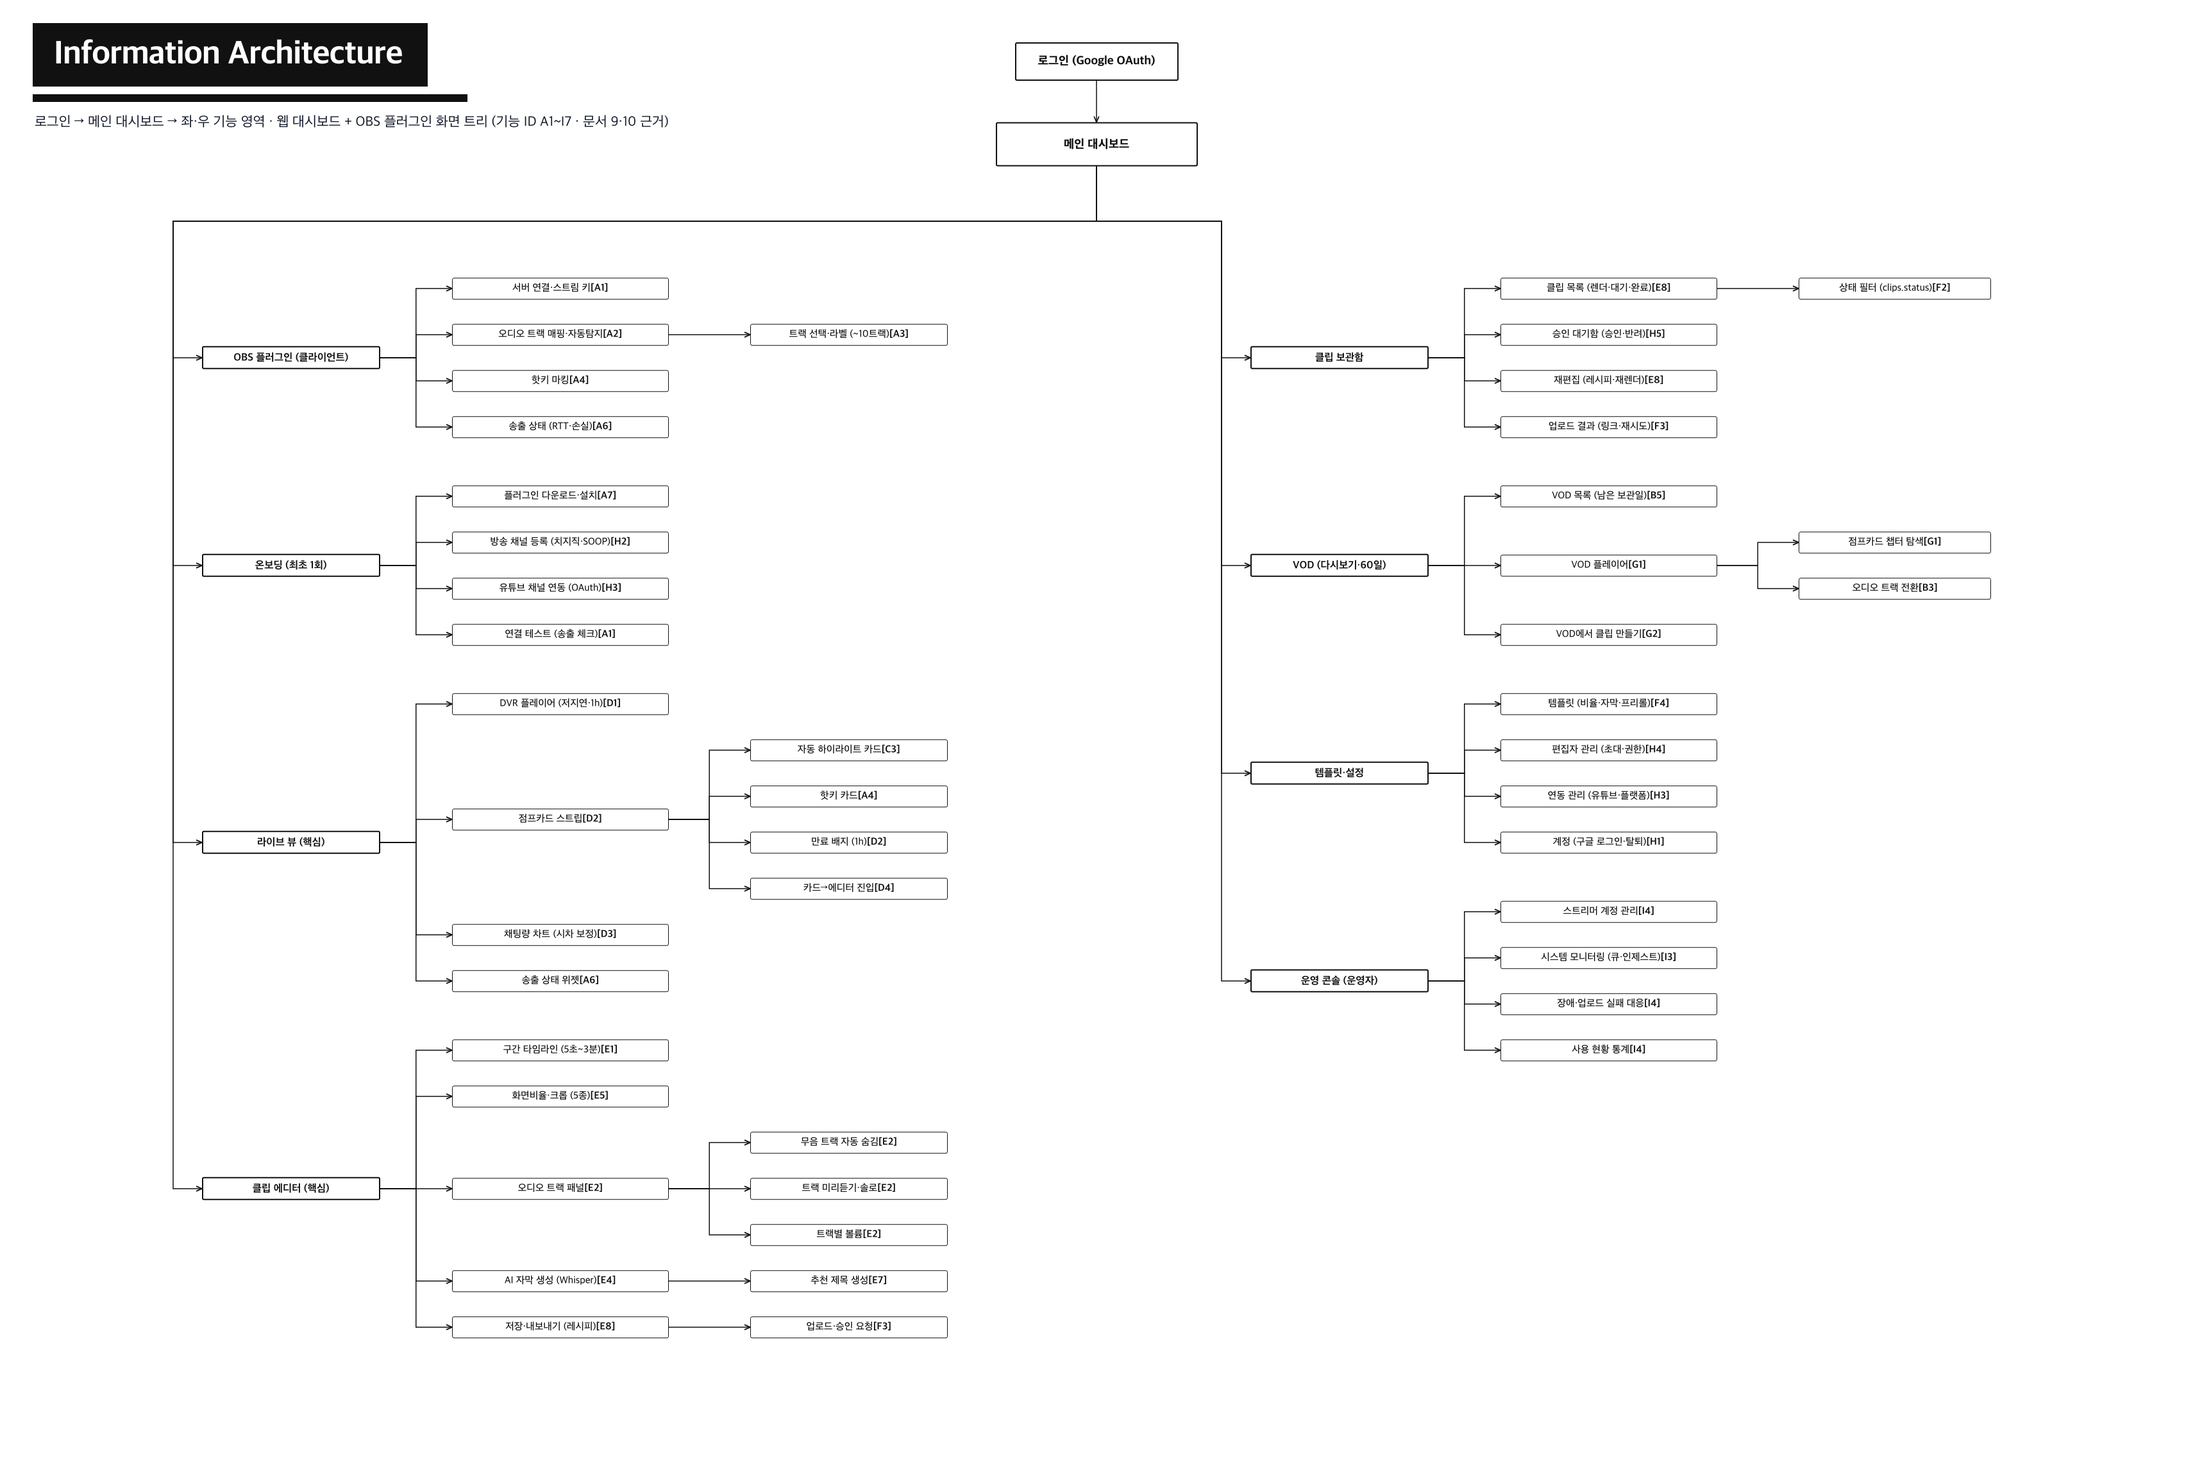
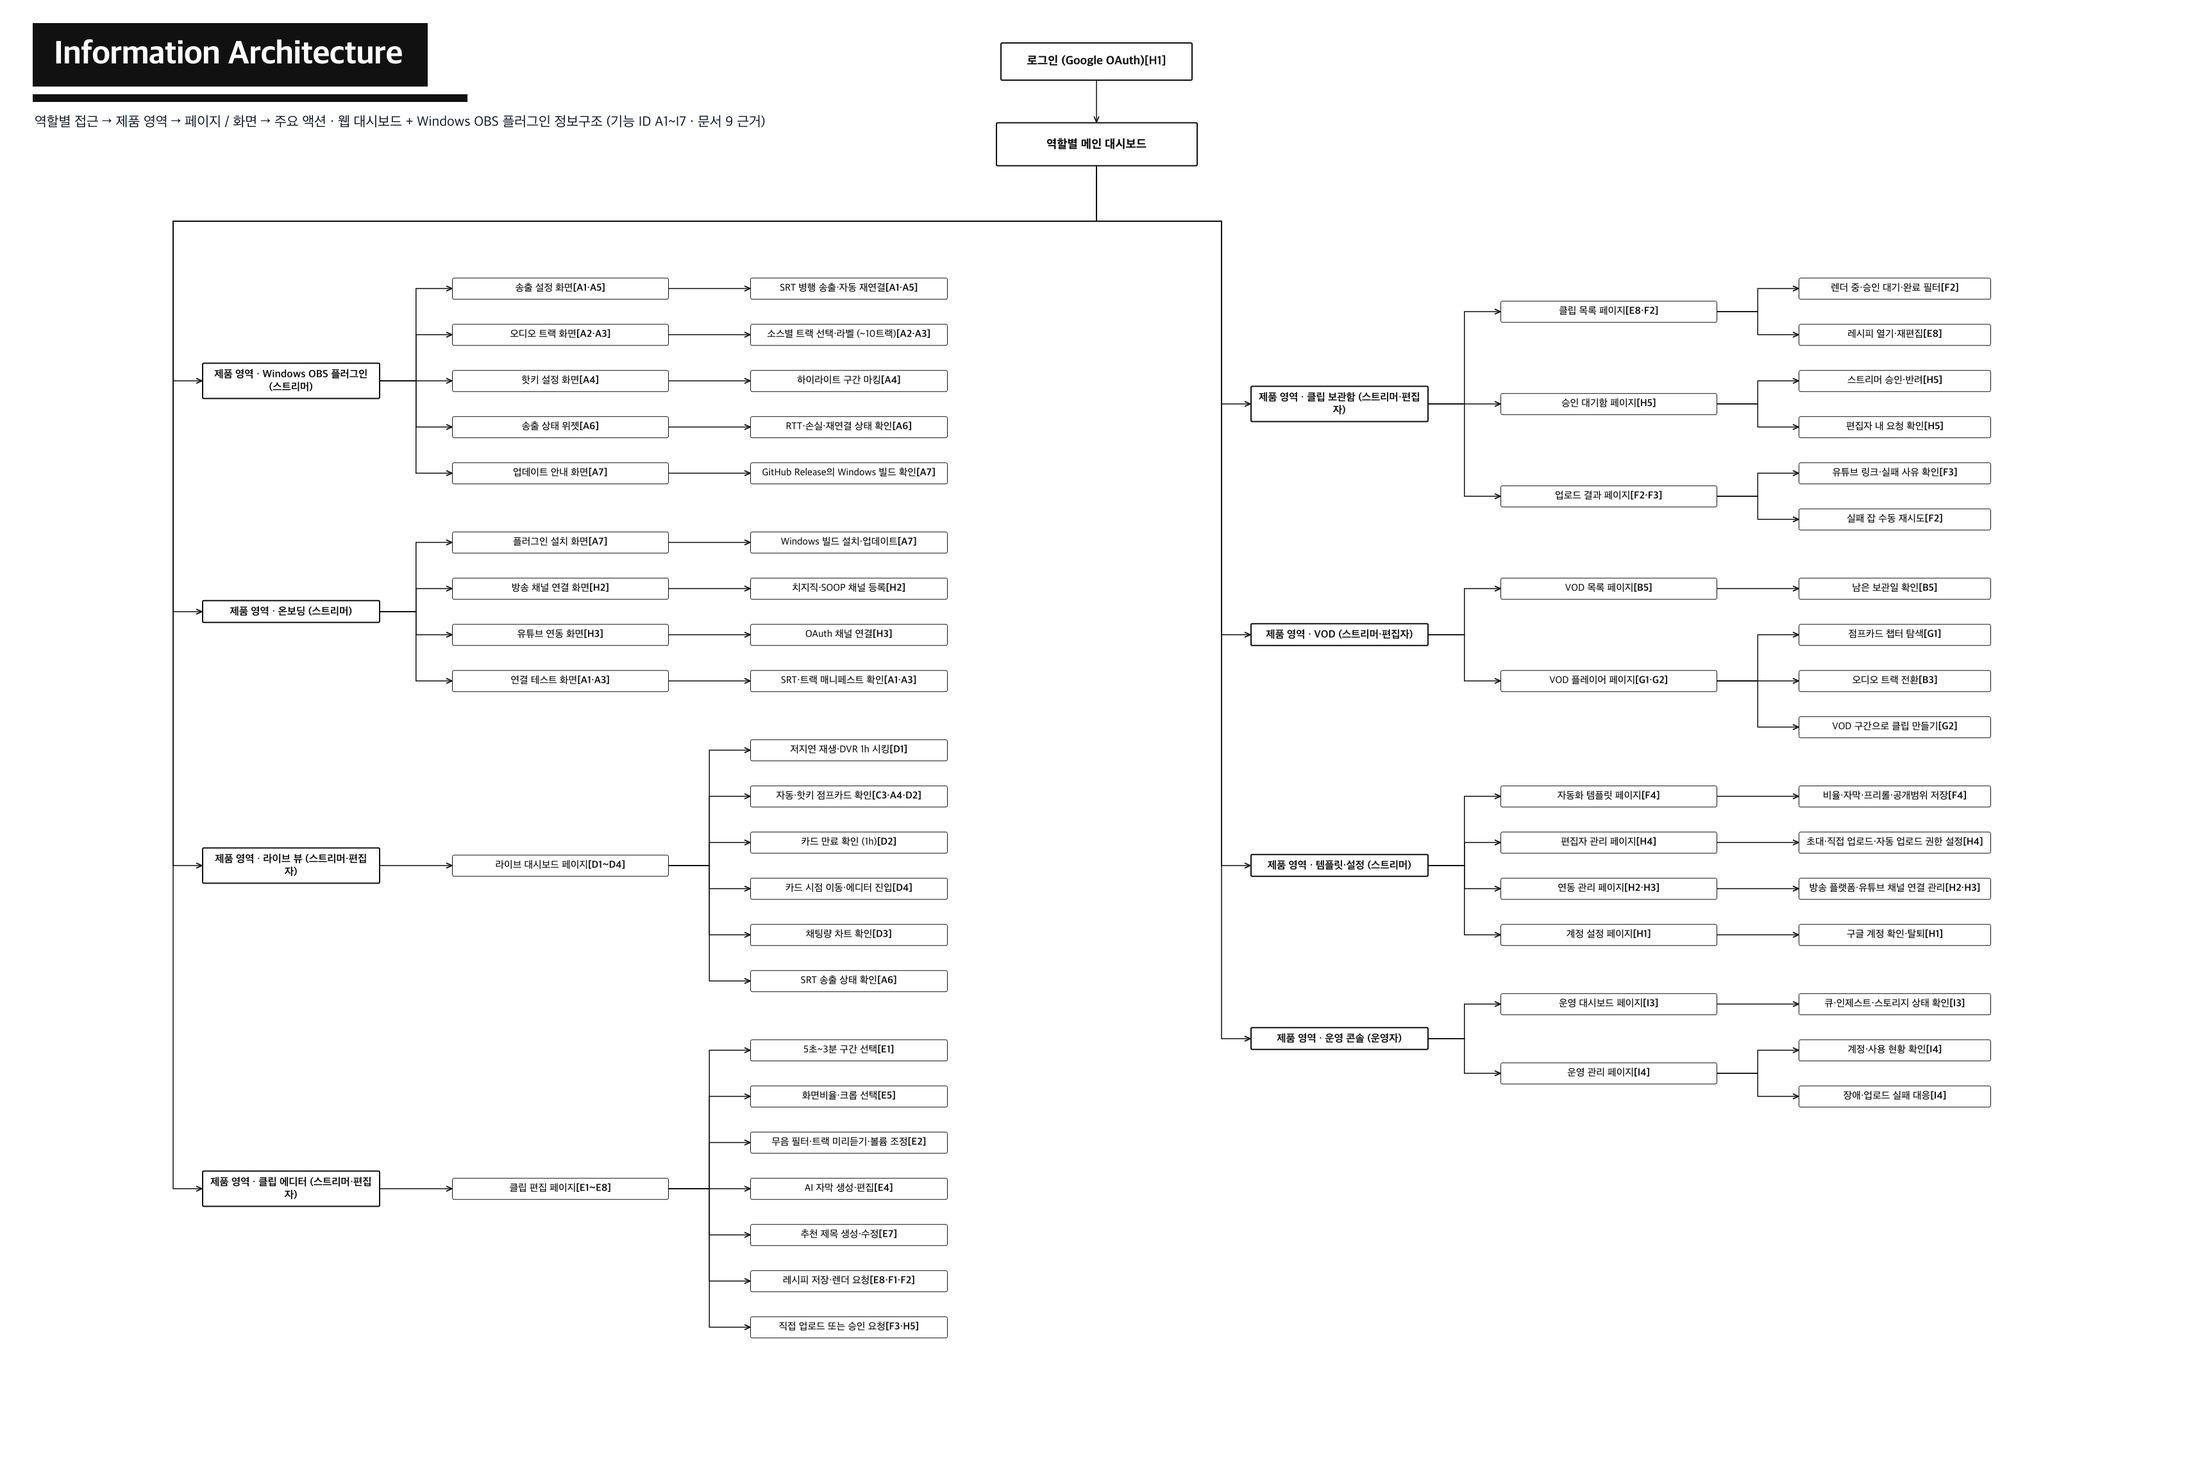
feat: 1번 IA 정보구조 정본화

diff --git a/1_Pokeclip_IA.html b/1_Pokeclip_IA.html
@@ -30,7 +30,7 @@
 <body>
   <div class="title-bar"><h1>Information Architecture</h1></div>
   <div class="title-underline"></div>
-  <div class="subtitle">로그인 → 메인 대시보드 → 좌·우 기능 영역 · 웹 대시보드 + OBS 플러그인 화면 트리 (기능 ID A1~I7 · 문서 9·10 근거)</div>
+  <div class="subtitle">역할별 접근 → 제품 영역 → 페이지 / 화면 → 주요 액션 · 웹 대시보드 + Windows OBS 플러그인 정보구조 (기능 ID A1~I7 · 문서 9 근거)</div>
 
   <svg class="wires" id="wires"></svg>
   <div id="nodes"></div>
@@ -49,67 +49,88 @@
 
   function n(t, ch){ return { t:t, ch:ch||null }; }
   const leftTree = [
-    n('OBS 플러그인 (클라이언트)', [
-      n('서버 연결·스트림 키 [A1]'),
-      n('오디오 트랙 매핑·자동탐지 [A2]', [ n('트랙 선택·라벨 (~10트랙) [A3]') ]),
-      n('핫키 마킹 [A4]'),
-      n('송출 상태 (RTT·손실) [A6]'),
+    n('제품 영역 · Windows OBS 플러그인 (스트리머)', [
+      n('송출 설정 화면 [A1·A5]', [ n('SRT 병행 송출·자동 재연결 [A1·A5]') ]),
+      n('오디오 트랙 화면 [A2·A3]', [ n('소스별 트랙 선택·라벨 (~10트랙) [A2·A3]') ]),
+      n('핫키 설정 화면 [A4]', [ n('하이라이트 구간 마킹 [A4]') ]),
+      n('송출 상태 위젯 [A6]', [ n('RTT·손실·재연결 상태 확인 [A6]') ]),
+      n('업데이트 안내 화면 [A7]', [ n('GitHub Release의 Windows 빌드 확인 [A7]') ]),
     ]),
-    n('온보딩 (최초 1회)', [
-      n('플러그인 다운로드·설치 [A7]'),
-      n('방송 채널 등록 (치지직·SOOP) [H2]'),
-      n('유튜브 채널 연동 (OAuth) [H3]'),
-      n('연결 테스트 (송출 체크) [A1]'),
+    n('제품 영역 · 온보딩 (스트리머)', [
+      n('플러그인 설치 화면 [A7]', [ n('Windows 빌드 설치·업데이트 [A7]') ]),
+      n('방송 채널 연결 화면 [H2]', [ n('치지직·SOOP 채널 등록 [H2]') ]),
+      n('유튜브 연동 화면 [H3]', [ n('OAuth 채널 연결 [H3]') ]),
+      n('연결 테스트 화면 [A1·A3]', [ n('SRT·트랙 매니페스트 확인 [A1·A3]') ]),
     ]),
-    n('라이브 뷰 (핵심)', [
-      n('DVR 플레이어 (저지연·1h) [D1]'),
-      n('점프카드 스트립 [D2]', [
-        n('자동 하이라이트 카드 [C3]'),
-        n('핫키 카드 [A4]'),
-        n('만료 배지 (1h) [D2]'),
-        n('카드→에디터 진입 [D4]'),
+    n('제품 영역 · 라이브 뷰 (스트리머·편집자)', [
+      n('라이브 대시보드 페이지 [D1~D4]', [
+        n('저지연 재생·DVR 1h 시킹 [D1]'),
+        n('자동·핫키 점프카드 확인 [C3·A4·D2]'),
+        n('카드 만료 확인 (1h) [D2]'),
+        n('카드 시점 이동·에디터 진입 [D4]'),
+        n('채팅량 차트 확인 [D3]'),
+        n('SRT 송출 상태 확인 [A6]'),
       ]),
-      n('채팅량 차트 (시차 보정) [D3]'),
-      n('송출 상태 위젯 [A6]'),
     ]),
-    n('클립 에디터 (핵심)', [
-      n('구간 타임라인 (5초~3분) [E1]'),
-      n('화면비율·크롭 (5종) [E5]'),
-      n('오디오 트랙 패널 [E2]', [
-        n('무음 트랙 자동 숨김 [E2]'),
-        n('트랙 미리듣기·솔로 [E2]'),
-        n('트랙별 볼륨 [E2]'),
+    n('제품 영역 · 클립 에디터 (스트리머·편집자)', [
+      n('클립 편집 페이지 [E1~E8]', [
+        n('5초~3분 구간 선택 [E1]'),
+        n('화면비율·크롭 선택 [E5]'),
+        n('무음 필터·트랙 미리듣기·볼륨 조정 [E2]'),
+        n('AI 자막 생성·편집 [E4]'),
+        n('추천 제목 생성·수정 [E7]'),
+        n('레시피 저장·렌더 요청 [E8·F1·F2]'),
+        n('직접 업로드 또는 승인 요청 [F3·H5]'),
       ]),
-      n('AI 자막 생성 (Whisper) [E4]', [ n('추천 제목 생성 [E7]') ]),
-      n('저장·내보내기 (레시피) [E8]', [ n('업로드·승인 요청 [F3]') ]),
     ]),
   ];
   const rightTree = [
-    n('클립 보관함', [
-      n('클립 목록 (렌더·대기·완료) [E8]', [ n('상태 필터 (clips.status) [F2]') ]),
-      n('승인 대기함 (승인·반려) [H5]'),
-      n('재편집 (레시피·재렌더) [E8]'),
-      n('업로드 결과 (링크·재시도) [F3]'),
+    n('제품 영역 · 클립 보관함 (스트리머·편집자)', [
+      n('클립 목록 페이지 [E8·F2]', [
+        n('렌더 중·승인 대기·완료 필터 [F2]'),
+        n('레시피 열기·재편집 [E8]'),
+      ]),
+      n('승인 대기함 페이지 [H5]', [
+        n('스트리머 승인·반려 [H5]'),
+        n('편집자 내 요청 확인 [H5]'),
+      ]),
+      n('업로드 결과 페이지 [F2·F3]', [
+        n('유튜브 링크·실패 사유 확인 [F3]'),
+        n('실패 잡 수동 재시도 [F2]'),
+      ]),
     ]),
-    n('VOD (다시보기·60일)', [
-      n('VOD 목록 (남은 보관일) [B5]'),
-      n('VOD 플레이어 [G1]', [
+    n('제품 영역 · VOD (스트리머·편집자)', [
+      n('VOD 목록 페이지 [B5]', [
+        n('남은 보관일 확인 [B5]'),
+      ]),
+      n('VOD 플레이어 페이지 [G1·G2]', [
         n('점프카드 챕터 탐색 [G1]'),
         n('오디오 트랙 전환 [B3]'),
+        n('VOD 구간으로 클립 만들기 [G2]'),
       ]),
-      n('VOD에서 클립 만들기 [G2]'),
     ]),
-    n('템플릿·설정', [
-      n('템플릿 (비율·자막·프리롤) [F4]'),
-      n('편집자 관리 (초대·권한) [H4]'),
-      n('연동 관리 (유튜브·플랫폼) [H3]'),
-      n('계정 (구글 로그인·탈퇴) [H1]'),
+    n('제품 영역 · 템플릿·설정 (스트리머)', [
+      n('자동화 템플릿 페이지 [F4]', [
+        n('비율·자막·프리롤·공개범위 저장 [F4]'),
+      ]),
+      n('편집자 관리 페이지 [H4]', [
+        n('초대·직접 업로드·자동 업로드 권한 설정 [H4]'),
+      ]),
+      n('연동 관리 페이지 [H2·H3]', [
+        n('방송 플랫폼·유튜브 채널 연결 관리 [H2·H3]'),
+      ]),
+      n('계정 설정 페이지 [H1]', [
+        n('구글 계정 확인·탈퇴 [H1]'),
+      ]),
     ]),
-    n('운영 콘솔 (운영자)', [
-      n('스트리머 계정 관리 [I4]'),
-      n('시스템 모니터링 (큐·인제스트) [I3]'),
-      n('장애·업로드 실패 대응 [I4]'),
-      n('사용 현황 통계 [I4]'),
+    n('제품 영역 · 운영 콘솔 (운영자)', [
+      n('운영 대시보드 페이지 [I3]', [
+        n('큐·인제스트·스토리지 상태 확인 [I3]'),
+      ]),
+      n('운영 관리 페이지 [I4]', [
+        n('계정·사용 현황 확인 [I4]'),
+        n('장애·업로드 실패 대응 [I4]'),
+      ]),
     ]),
   ];
 
@@ -130,8 +151,8 @@
   const rightEnd = Y;
   const H = Math.round(Math.max(leftEnd, rightEnd) + 90);
 
-  const root  = { t:'메인 대시보드',           x:1035, w:210, y:150, h:46, cls:'root' };
-  const login = { t:'로그인 (Google OAuth)',   x:1055, w:170, y:64,  h:40, cls:'root' };
+  const root  = { t:'역할별 메인 대시보드',        x:1035, w:210, y:150, h:46, cls:'root' };
+  const login = { t:'로그인 (Google OAuth) [H1]', x:1040, w:200, y:64,  h:40, cls:'root' };
 
   // ---- 노드 렌더 ----
   const box = document.getElementById('nodes');

diff --git a/site/src/content/diagrams/1.md b/site/src/content/diagrams/1.md
@@ -1,65 +1,65 @@
-> 정보 구조(IA) 다이어그램을 EDGE 슬라이드 문법(순수 모노크롬 트리)으로 재구성한 뷰. 로그인 → 메인 대시보드 → 좌·우 기능 영역으로 대분기하는 웹 대시보드 + OBS 플러그인 화면 트리. 말단 화면·버튼·상태·필터에는 기능 ID(A1~I7, [9번 기능명세서](#) 근거)를 배지로 부착했고, 보관함·승인함 등 상태 필터는 [10번 데이터플로우](#)의 화면↔테이블 매핑(clips.status 등)을 따른다.
+> Google 로그인 `H1` → 역할별 메인 대시보드 → **제품 영역 → 페이지/화면 → 주요 액션** 순으로 읽는 정보 구조. 데이터베이스 필드명이 아니라 사용자가 실제로 접하는 화면과 행동을 기준으로 구성했으며, 각 항목은 [9번 기능명세서](#)의 기능 ID에 연결된다.
 
-## OBS 플러그인 (클라이언트)
+## Windows OBS 플러그인 · 스트리머
 
-- 서버 연결·스트림 키 [A1]
-- 오디오 트랙 매핑·자동탐지 [A2] → 트랙 선택·라벨 (~10트랙) [A3]
-- 핫키 마킹 [A4]
-- 송출 상태 (RTT·손실) [A6]
+- **송출 설정 화면** `A1·A5` → SRT 병행 송출·자동 재연결
+- **오디오 트랙 화면** `A2·A3` → 소스별 트랙 선택·라벨 (~10트랙)
+- **핫키 설정 화면** `A4` → 하이라이트 구간 마킹
+- **송출 상태 위젯** `A6` → RTT·손실·재연결 상태 확인
+- **업데이트 안내 화면** `A7` → GitHub Release의 Windows 빌드 확인
 
 ## 온보딩 (최초 1회)
 
-- 플러그인 다운로드·설치 [A7]
-- 방송 채널 등록 (치지직·SOOP) [H2]
-- 유튜브 채널 연동 (OAuth) [H3]
-- 연결 테스트 (송출 체크) [A1]
+- **플러그인 설치 화면** `A7` → Windows 빌드 설치·업데이트
+- **방송 채널 연결 화면** `H2` → 치지직·SOOP 채널 등록
+- **유튜브 연동 화면** `H3` → OAuth 채널 연결
+- **연결 테스트 화면** `A1·A3` → SRT·트랙 매니페스트 확인
 
-## 라이브 뷰 (핵심)
+## 라이브 뷰 · 스트리머/편집자
 
-- DVR 플레이어 (저지연·1h 되감기) [D1]
-- 점프카드 스트립 [D2] — 자동 하이라이트 카드 [C3] · 핫키 카드 [A4] · 만료 배지 (1h) [D2] · 카드→에디터 진입 [D4]
-- 채팅량 차트 (시차 보정) [D3]
-- 송출 상태 위젯 [A6]
+- **라이브 대시보드 페이지** `D1~D4`
+  - 저지연 재생·DVR 1h 시킹 `D1`
+  - 자동·핫키 점프카드 확인 `C3·A4·D2`, 카드 만료 확인 `D2`
+  - 카드 시점 이동·에디터 진입 `D4`
+  - 채팅량 차트 확인 `D3`, SRT 송출 상태 확인 `A6`
 
-## 클립 에디터 (핵심)
+## 클립 에디터 · 스트리머/편집자
 
-- 구간 타임라인 (5초~3분) [E1]
-- 화면비율·크롭 (5종) [E5]
-- 오디오 트랙 패널 [E2] — 무음 트랙 자동 숨김 [E2] · 트랙 미리듣기·솔로 [E2] · 트랙별 볼륨 [E2]
-- AI 자막 생성 (Whisper) [E4] → 추천 제목 생성 [E7]
-- 저장·내보내기 (레시피) [E8] → 업로드·승인 요청 [F3]
+- **클립 편집 페이지** `E1~E8`
+  - 5초~3분 구간 선택 `E1`, 화면비율·크롭 선택 `E5`
+  - 무음 필터·트랙 미리듣기·볼륨 조정 `E2`
+  - AI 자막 생성·편집 `E4`, 추천 제목 생성·수정 `E7`
+  - 레시피 저장·렌더 요청 `E8·F1·F2`
+  - 스트리머/직접 업로드 권한자는 업로드 `F3`, 권한 없는 편집자는 승인 요청 `H5`
 
-## 클립 보관함
+## 클립 보관함 · 스트리머/편집자
 
-- 클립 목록 (렌더·대기·완료) [E8] → 상태 필터 (clips.status) [F2]
-- 승인 대기함 (승인·반려) [H5] — 스트리머 전용
-- 재편집 (레시피·재렌더) [E8]
-- 업로드 결과 (링크·재시도) [F3]
+- **클립 목록 페이지** `E8·F2` → 렌더 중·승인 대기·완료 필터, 레시피 열기·재편집
+- **승인 대기함 페이지** `H5` → 스트리머 승인·반려 / 편집자 내 요청 확인
+- **업로드 결과 페이지** `F2·F3` → 유튜브 링크·실패 사유 확인, 실패 잡 수동 재시도
 
 ## VOD (다시보기 · 60일 보관)
 
-- VOD 목록 (남은 보관일) [B5]
-- VOD 플레이어 [G1] — 점프카드 챕터 탐색 [G1] · 오디오 트랙 전환 [B3]
-- VOD에서 클립 만들기 [G2]
+- **VOD 목록 페이지** `B5` → 남은 보관일 확인
+- **VOD 플레이어 페이지** `G1·G2` → 점프카드 챕터 탐색 `G1`, 오디오 트랙 전환 `B3`, VOD 구간으로 클립 만들기 `G2`
 
-## 템플릿·설정
+## 템플릿·설정 · 스트리머
 
-- 템플릿 (비율·자막·프리롤) [F4] — 스트리머 전용
-- 편집자 관리 (초대·권한) [H4] — 스트리머 전용
-- 연동 관리 (유튜브·플랫폼) [H3]
-- 계정 (구글 로그인·탈퇴) [H1]
+- **자동화 템플릿 페이지** `F4` → 비율·자막·프리롤·공개범위 저장
+- **편집자 관리 페이지** `H4` → 초대·직접 업로드·자동 업로드 권한 설정
+- **연동 관리 페이지** `H2·H3` → 방송 플랫폼·유튜브 채널 연결 관리
+- **계정 설정 페이지** `H1` → 구글 계정 확인·탈퇴
 
 ## 운영 콘솔 (운영자 전용)
 
-- 스트리머 계정 관리 [I4]
-- 시스템 모니터링 (큐·인제스트) [I3]
-- 장애·업로드 실패 대응 [I4]
-- 사용 현황 통계 [I4]
+- **운영 대시보드 페이지** `I3` → 큐·인제스트·스토리지 상태 확인
+- **운영 관리 페이지** `I4` → 계정·사용 현황 확인, 장애·업로드 실패 대응
 
 ## 정책 노트
 
-- 대부분의 대시보드 화면은 **스트리머·편집자 공용** — 편집자는 부여받은 권한(업로드·자동업로드)에 따라 동작이 달라짐
+- 라이브 뷰·클립 에디터·보관함·VOD는 **스트리머·편집자 공용**이며, 편집자는 부여받은 직접 업로드·자동 업로드 권한에 따라 동작이 달라진다.
 - **승인 대기함**은 스트리머에겐 승인·반려 화면, 편집자에겐 '내 요청 목록'으로 역할별 표시
 - 유튜브 업로드는 항상 **스트리머의 채널 토큰**으로 실행 — 편집자는 채널 연동 불필요, 구글 로그인만
 - **VOD 보관 60일** (치지직 프로 등급 기준) · 방송 종료 시 자동 생성 · 클립·레시피는 영구, 재렌더는 60일 내
-- 핫키 바인딩은 OBS 단축키 시스템 사용 → 플러그인 영역에 위치
+- A7은 **Windows 설치·GitHub Release** 범위로 한정한다.
+- 핫키 바인딩은 OBS 단축키 시스템을 사용하므로 플러그인 영역에 위치한다.
